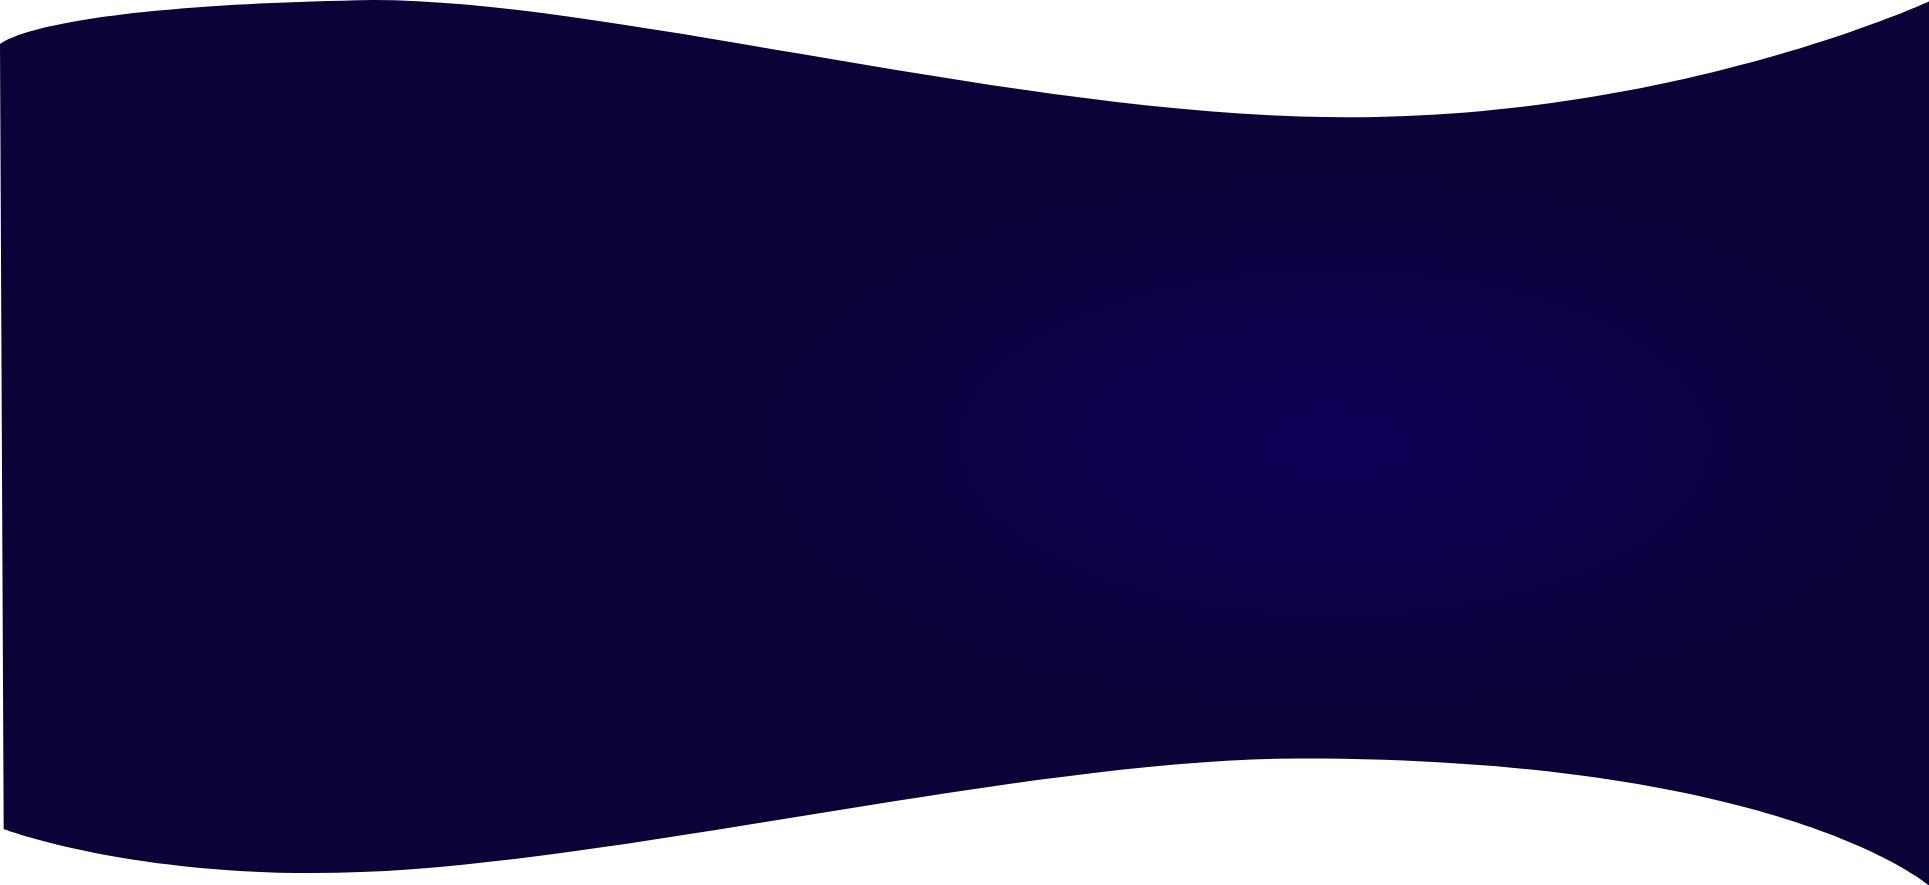
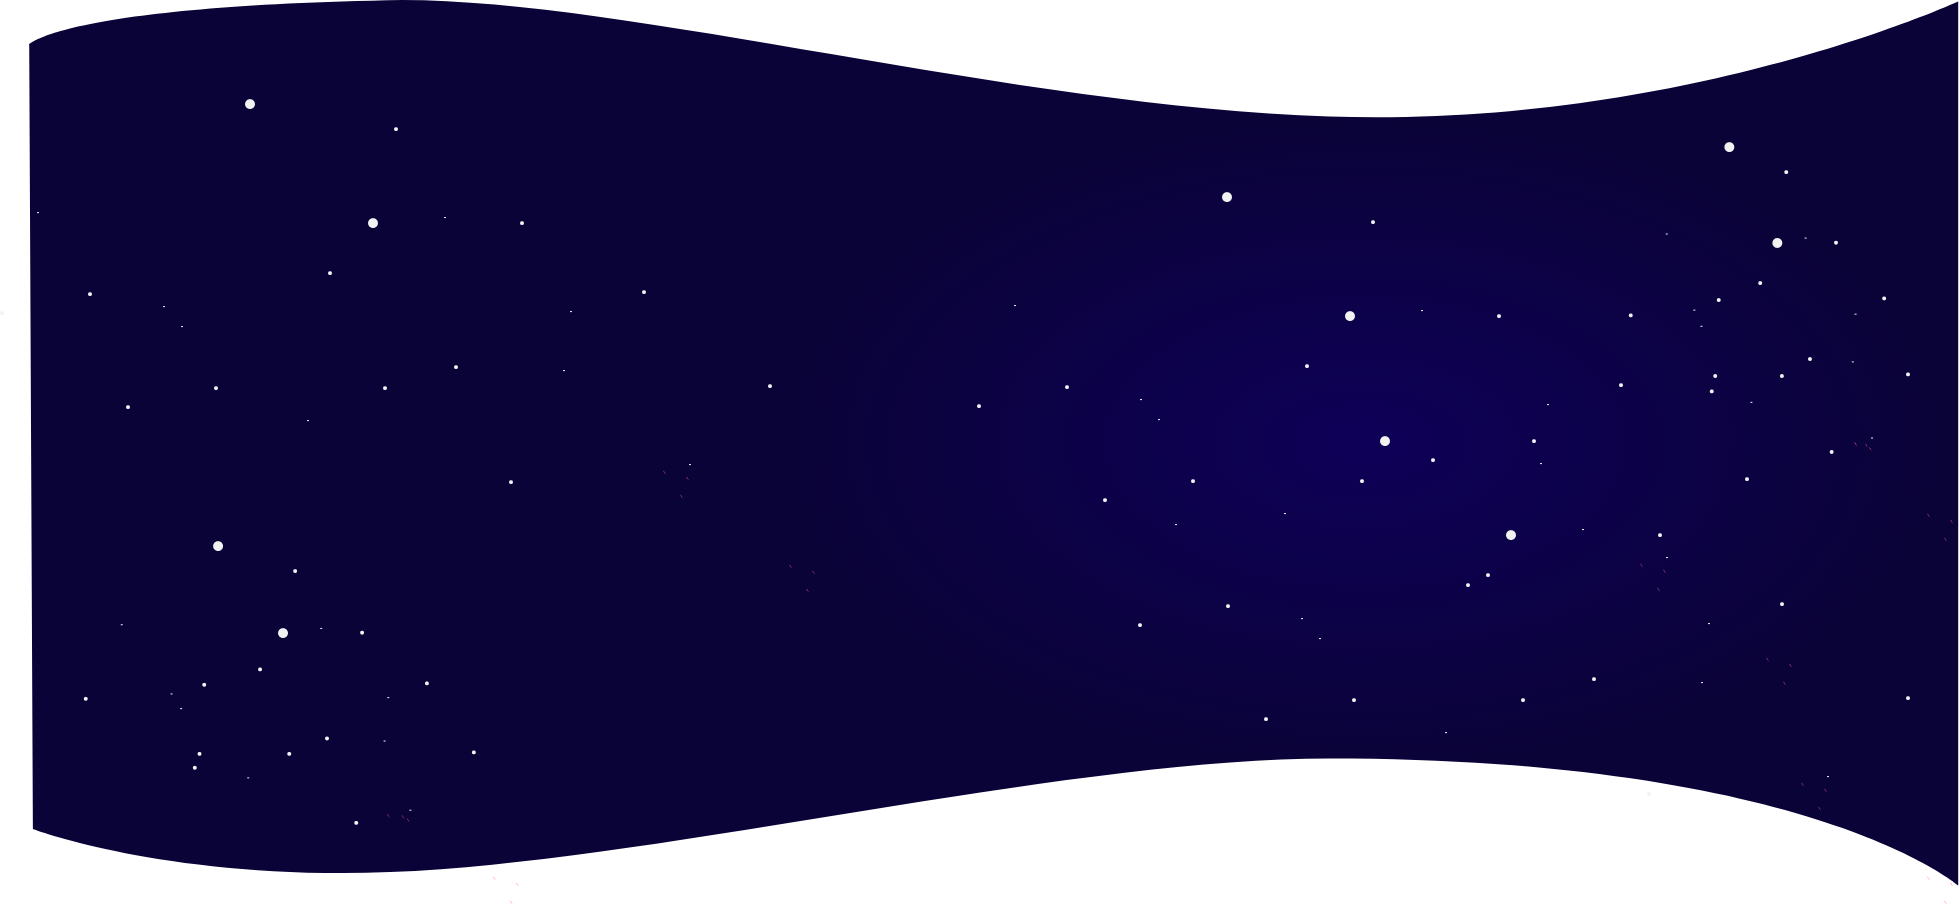
implement the login view for both the admin and publisher

diff --git a/public/css/frontend.min.css b/public/css/frontend.min.css
@@ -39,6 +39,14 @@
     position: absolute;
     top:30px
 }
+.logoname-color{
+    font-size: 18px;
+    font-family: "Philosopher";
+    position: relative;
+    top:10px;
+    color:#0a023a;
+    left: 5px;
+}
 
 #navbarSupportedContent{
     font-family: 'Seravek Light';
@@ -59,6 +67,7 @@
     padding-right: 33px;
     border-radius: 50px;
     color: #261d84;
+    font-weight: bold;
 }
 
 
@@ -97,12 +106,9 @@
     width: 100%;
     bottom: 55px;
     z-index: 17;
-    top:450px
+    top:500px
 }
-.form-control {
-    
-    border: 0px;
-}
+
 .home-form-btn{
     margin-top: 32px;
     background-color: #ffb600;
@@ -169,6 +175,7 @@ label{
 .project-color{
     color:#0a023a;
     font-family: "Nexa";
+    font-weight: bold;
 }
 .project-text{
     font-family: "Raleway";
@@ -197,6 +204,7 @@ label{
     width: 100%;
     font-size: 25px;
     font-family: "Raleway";
+    font-weight: bold;
 }
 
 .goldlibrary,.bronzelibrary,.silverlibrary{
@@ -213,6 +221,23 @@ label{
 
 .start-journey{
     background-color: #0a0337;
+    border: 0px;
+    border-radius: 22px 22px;
+}
+.start-journey-login{
+    background-color: #0a0337;
+    border: 0px;
+    border-radius: 22px 22px;
+    font-size: 18px;
+}
+
+.logbanner{
+    background:  url("../images/banner/logbanner.png") no-repeat center;
+    background-size: cover;
+    background-size: 100% 100%;
+}
+.loginsection{
+    height: 100vh;
 }
 
 .goldjourney{
@@ -240,8 +265,9 @@ label{
     margin-left: 16%;
 }
 
-.silverjourney-btn,.silverjourney-btn, .goldjourney-btn{
+.silverjourney-btn,.bronzejourney-btn, .goldjourney-btn{
     font-family: "Raleway";
+    font-weight: bold;
 }
 
 .bronzejourney-btn{
@@ -293,4 +319,7 @@ footer{
 .footerlogo{
     padding-left: 48px;
     padding-top: 35px;
+}
+.logform{
+    margin-top: 40%;
 }

diff --git a/resources/css/costume/frontend.css b/resources/css/costume/frontend.css
@@ -39,6 +39,14 @@
     position: absolute;
     top:30px
 }
+.logoname-color{
+    font-size: 18px;
+    font-family: "Philosopher";
+    position: relative;
+    top:10px;
+    color:#0a023a;
+    left: 5px;
+}
 
 #navbarSupportedContent{
     font-family: 'Seravek Light';
@@ -59,6 +67,7 @@
     padding-right: 33px;
     border-radius: 50px;
     color: #261d84;
+    font-weight: bold;
 }
 
 
@@ -97,12 +106,9 @@
     width: 100%;
     bottom: 55px;
     z-index: 17;
-    top:450px
+    top:500px
 }
-.form-control {
-    
-    border: 0px;
-}
+
 .home-form-btn{
     margin-top: 32px;
     background-color: #ffb600;
@@ -169,6 +175,7 @@ label{
 .project-color{
     color:#0a023a;
     font-family: "Nexa";
+    font-weight: bold;
 }
 .project-text{
     font-family: "Raleway";
@@ -197,6 +204,7 @@ label{
     width: 100%;
     font-size: 25px;
     font-family: "Raleway";
+    font-weight: bold;
 }
 
 .goldlibrary,.bronzelibrary,.silverlibrary{
@@ -213,6 +221,23 @@ label{
 
 .start-journey{
     background-color: #0a0337;
+    border: 0px;
+    border-radius: 22px 22px;
+}
+.start-journey-login{
+    background-color: #0a0337;
+    border: 0px;
+    border-radius: 22px 22px;
+    font-size: 18px;
+}
+
+.logbanner{
+    background:  url("../images/banner/logbanner.png") no-repeat center;
+    background-size: cover;
+    background-size: 100% 100%;
+}
+.loginsection{
+    height: 100vh;
 }
 
 .goldjourney{
@@ -240,8 +265,9 @@ label{
     margin-left: 16%;
 }
 
-.silverjourney-btn,.silverjourney-btn, .goldjourney-btn{
+.silverjourney-btn,.bronzejourney-btn, .goldjourney-btn{
     font-family: "Raleway";
+    font-weight: bold;
 }
 
 .bronzejourney-btn{
@@ -293,4 +319,7 @@ footer{
 .footerlogo{
     padding-left: 48px;
     padding-top: 35px;
+}
+.logform{
+    margin-top: 40%;
 }

diff --git a/resources/views/auth/login.blade.php b/resources/views/auth/login.blade.php
@@ -1,21 +1,24 @@
 @extends('layouts.app')
 
 @section('content')
-<div class="container">
-    <div class="row justify-content-center">
-        <div class="col-md-8">
-            <div class="card">
-                <div class="card-header">{{ __('Login') }}</div>
+<div class="loginsection">
+    <div class="row h-100 mx-0">
+        <div class="col-md-5 bg-white pl-4">
+            <div class="card border-0 logform">
+                <div class="card-header border-0 bg-white d-flex justify-content-center">
+                    <a class="text-white" href="{{ url('/') }}">
+                        <img src="images/logo/bslogo.png" alt="bluesparrow logo"><span class="logoname-color ">{{ config('app.name', 'BlueSparrow') }}</span>
+                    </a>
+                </div>
 
                 <div class="card-body">
                     <form method="POST" action="{{ route('login') }}">
                         @csrf
 
-                        <div class="form-group row">
-                            <label for="email" class="col-md-4 col-form-label text-md-right">{{ __('E-Mail Address') }}</label>
+                        <div class="form-group mb-4">
 
-                            <div class="col-md-6">
-                                <input id="email" type="email" class="form-control @error('email') is-invalid @enderror" name="email" value="{{ old('email') }}" required autocomplete="email" autofocus>
+                            <div class="">
+                                <input id="email" type="email" placeholder="Email" class="form-control @error('email') is-invalid @enderror" name="email" value="{{ old('email') }}" required autocomplete="email" autofocus>
 
                                 @error('email')
                                     <span class="invalid-feedback" role="alert">
@@ -25,11 +28,9 @@
                             </div>
                         </div>
 
-                        <div class="form-group row">
-                            <label for="password" class="col-md-4 col-form-label text-md-right">{{ __('Password') }}</label>
-
-                            <div class="col-md-6">
-                                <input id="password" type="password" class="form-control @error('password') is-invalid @enderror" name="password" required autocomplete="current-password">
+                        <div class="form-group">
+                            <div class="">
+                                <input id="password" type="password" placeholder="Password" class="form-control @error('password') is-invalid @enderror" name="password" required autocomplete="current-password">
 
                                 @error('password')
                                     <span class="invalid-feedback" role="alert">
@@ -39,8 +40,8 @@
                             </div>
                         </div>
 
-                        <div class="form-group row">
-                            <div class="col-md-6 offset-md-4">
+                        <div class="form-group row mb-4">
+                            <div class="col-6">
                                 <div class="form-check">
                                     <input class="form-check-input" type="checkbox" name="remember" id="remember" {{ old('remember') ? 'checked' : '' }}>
 
@@ -49,24 +50,28 @@
                                     </label>
                                 </div>
                             </div>
-                        </div>
-
-                        <div class="form-group row mb-0">
-                            <div class="col-md-8 offset-md-4">
-                                <button type="submit" class="btn btn-primary">
-                                    {{ __('Login') }}
-                                </button>
-
+                            <div class="col-6 text-right">
                                 @if (Route::has('password.request'))
-                                    <a class="btn btn-link" href="{{ route('password.request') }}">
+                                    <a class="btn btn-link py-0" href="{{ route('password.request') }}">
                                         {{ __('Forgot Your Password?') }}
                                     </a>
                                 @endif
                             </div>
                         </div>
+
+                        <div class="form-group row mb-0">
+                            <div class="col-12">
+                                <button type="submit" class="start-journey-login text-white py-2 w-100">
+                                    {{ __('Login') }}
+                                </button>
+                            </div>
+                        </div>
                     </form>
                 </div>
             </div>
+        </div>
+        <div class="col-md-7 d-none d-md-block logbanner">
+
         </div>
     </div>
 </div>

diff --git a/resources/views/layouts/app.blade.php b/resources/views/layouts/app.blade.php
@@ -18,9 +18,12 @@
 
     <!-- Styles -->
     <link href="{{ asset('css/app.css') }}" rel="stylesheet">
+    <link rel="stylesheet" href="css/frontend.min.css">
+
 </head>
 <body>
-    <div id="app">
+    <div>
+        <!--
         <nav class="navbar navbar-expand-md navbar-light bg-white shadow-sm">
             <div class="container">
                 <a class="navbar-brand" href="{{ url('/') }}">
@@ -31,14 +34,12 @@
                 </button>
 
                 <div class="collapse navbar-collapse" id="navbarSupportedContent">
-                    <!-- Left Side Of Navbar -->
                     <ul class="navbar-nav mr-auto">
 
                     </ul>
 
-                    <!-- Right Side Of Navbar -->
+                    
                     <ul class="navbar-nav ml-auto">
-                        <!-- Authentication Links -->
                         @guest
                             <li class="nav-item">
                                 <a class="nav-link" href="{{ route('login') }}">{{ __('Login') }}</a>
@@ -71,8 +72,9 @@
                 </div>
             </div>
         </nav>
+        -->
 
-        <main class="py-4">
+        <main>
             @yield('content')
         </main>
     </div>

diff --git a/resources/views/welcome.blade.php b/resources/views/welcome.blade.php
@@ -160,7 +160,7 @@
                     <p class="mt-3 project-text">
                         With tools to make every part of your processs more human and a support team excited to help you, getting started with BlueSparrow has never been easier.
                     </p>
-                    <button class="btn mt-3 py-3 px-4 text-white start-journey">
+                    <button class="mt-3 py-3 px-5 text-white start-journey">
                         Start your journey
                     </button>
                 </div>
@@ -170,7 +170,7 @@
             </div>
         </section>
         <section class="other-section2 py-5">
-            <h3 class="text-center py-3 nexa">What our clients say about us</h3>
+            <h3 class="text-center py-3 nexa"><strong> What our clients say about us</strong></h3>
             <div class="row mx-0">
                 <div class="col-6 col-md-6">
                     <img src="images/items/comment.png" alt="" class="d-block mx-auto" style="width:80%;">
